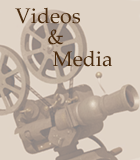
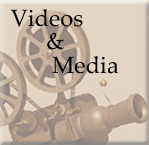
resize and recolor videos link

diff --git a/ucdavis/history/resources/index.html b/ucdavis/history/resources/index.html
@@ -62,7 +62,7 @@
 <div id="board">
 	  <div id="bd-content-highlight" class="span-24 last">
 
-		<div class="float-left pad-15L pad-10"><img src="./images/videos.png" alt="Videos and Media"></div>
+		<div class="float-left pad-15L pad-15"><img src="./images/videos.png" alt="Videos and Media"></div>
 
 		<div id="bd-content-highlight-areas" class="float-left">
 
